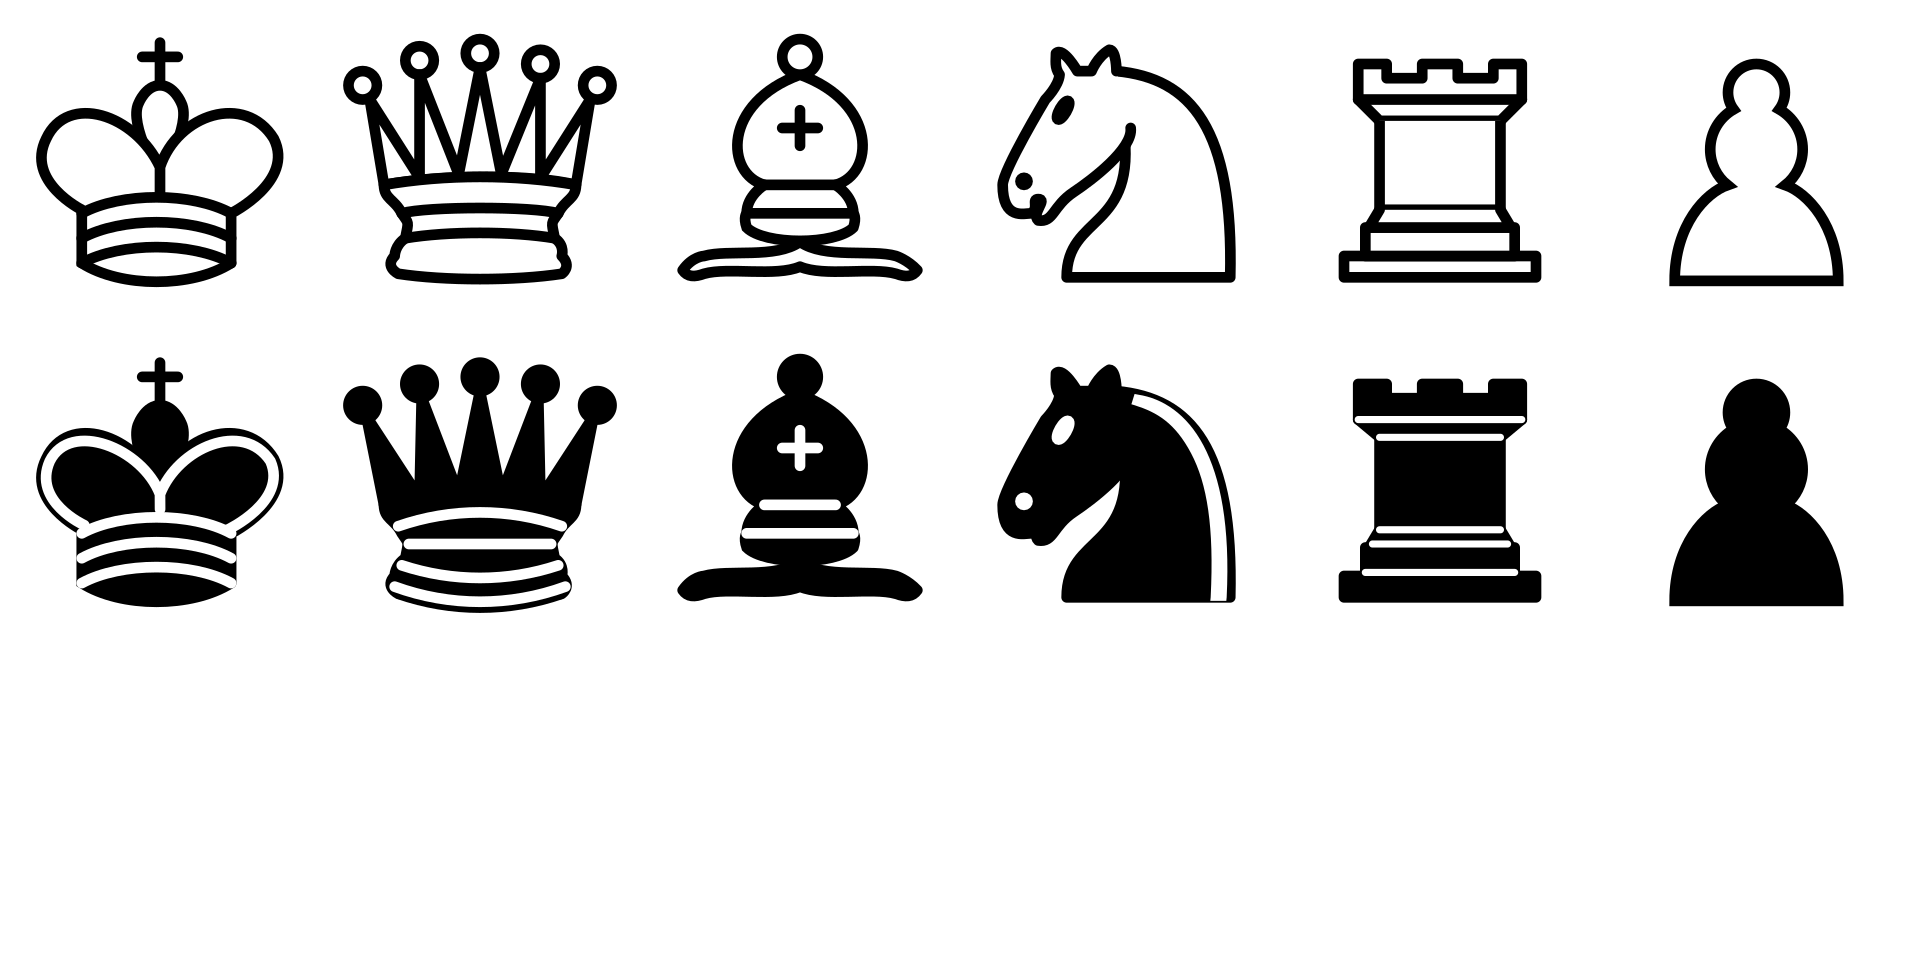
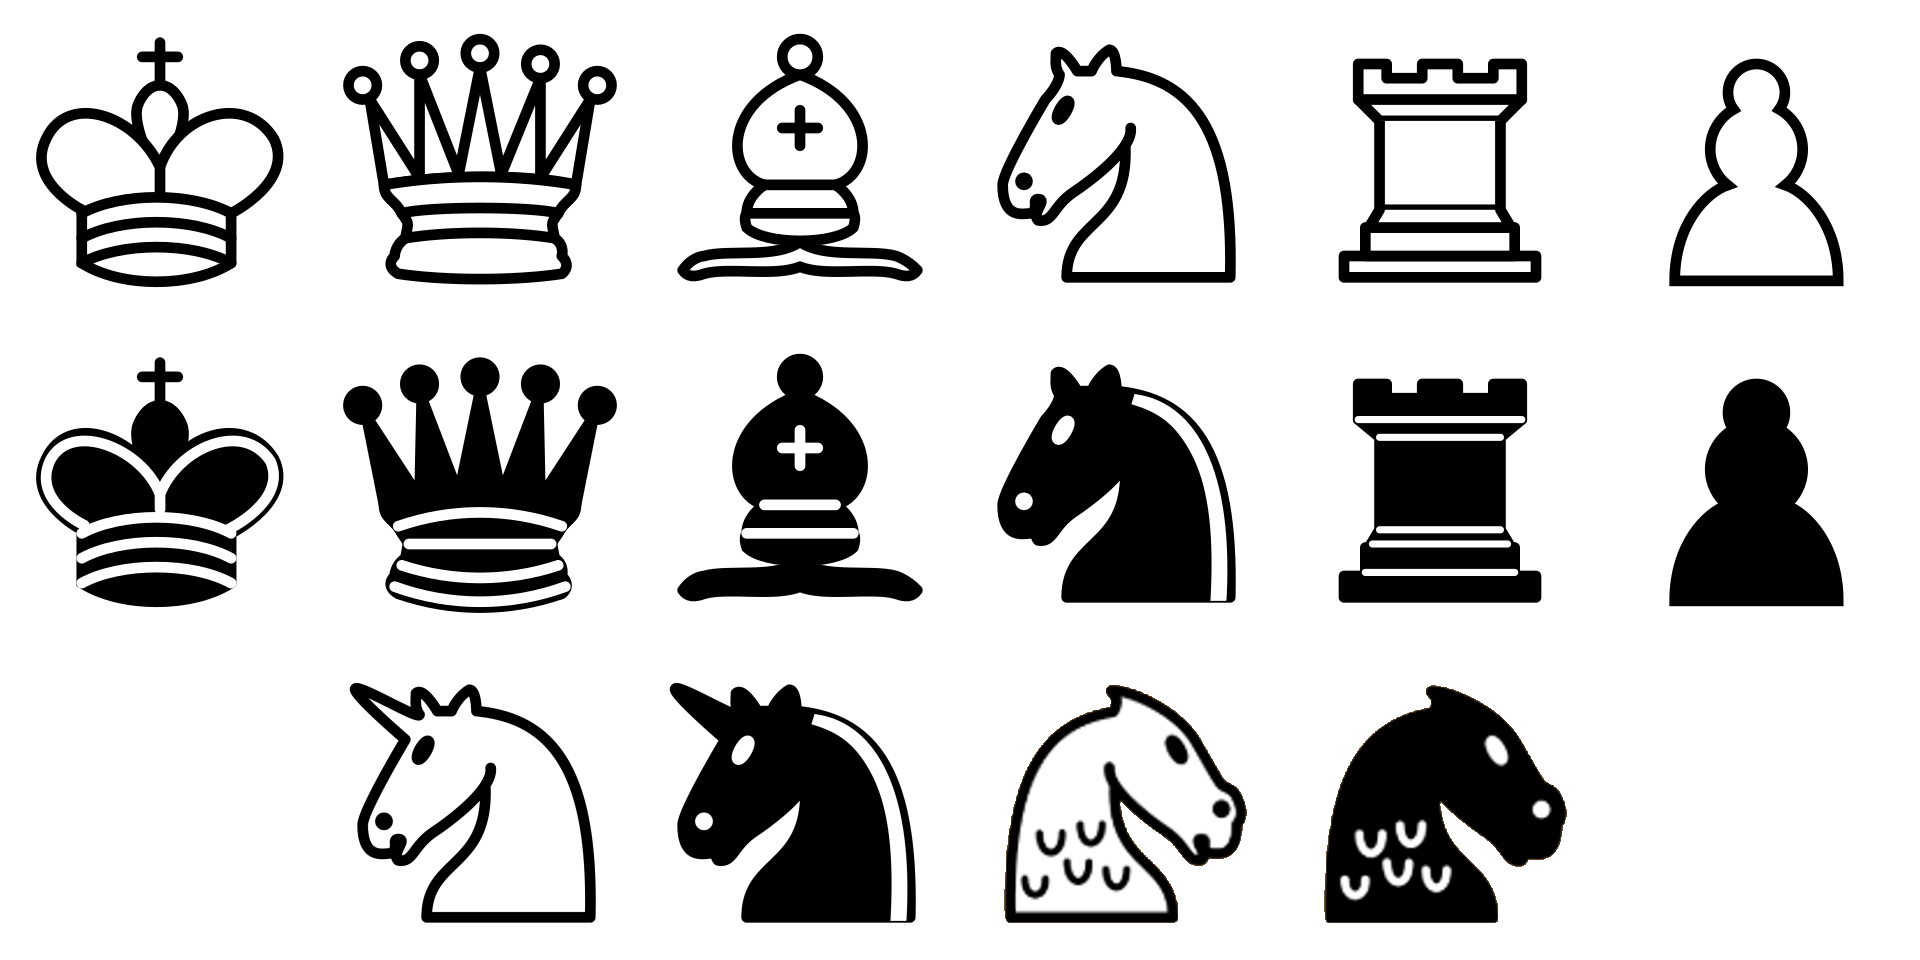
added proper timeline logic added dragon and unicorn

Changed region(s): [[0.3438, 0.7188, 0.6562, 0.9688], [0.6875, 0.7188, 0.8125, 0.9688], [0.1875, 0.7188, 0.3125, 0.9688]]

diff --git a/Chess5DGUI/Utils.cs b/Chess5DGUI/Utils.cs
@@ -14,12 +14,16 @@ namespace Chess5DGUI
             {PIECE.WHITE_KING,new Point(0,0)},
             {PIECE.WHITE_QUEEN,new Point(320,0)},
             {PIECE.WHITE_BISHOP,new Point(640,0)},
+            {PIECE.WHITE_UNICORN,new Point(320,640)},
+            {PIECE.WHITE_DRAGON,new Point(960,640)},
             {PIECE.WHITE_KNIGHT,new Point(960,0)},
             {PIECE.WHITE_ROOK,new Point(1280,0)},
             {PIECE.WHITE_PAWN,new Point(1600,0)},
             {PIECE.BLACK_KING,new Point(0,320)},
             {PIECE.BLACK_QUEEN,new Point(320,320)},
             {PIECE.BLACK_BISHOP,new Point(640,320)},
+            {PIECE.BLACK_UNICORN,new Point(640,640)},
+            {PIECE.BLACK_DRAGON,new Point(1280,640)},
             {PIECE.BLACK_KNIGHT,new Point(960,320)},
             {PIECE.BLACK_ROOK,new Point(1280,320)},
             {PIECE.BLACK_PAWN,new Point(1600,320)},
@@ -30,12 +34,16 @@ namespace Chess5DGUI
             { PIECE.WHITE_PAWN, 1 },
             { PIECE.WHITE_KNIGHT, 3 },
             { PIECE.WHITE_BISHOP, 3 },
+            { PIECE.WHITE_UNICORN, 3 },
+            { PIECE.WHITE_DRAGON, 3 },
             { PIECE.WHITE_ROOK, 5 },
             { PIECE.WHITE_QUEEN, 9 },
             { PIECE.WHITE_KING, 1 },
             { PIECE.BLACK_PAWN, -1 },
             { PIECE.BLACK_KNIGHT, -3 },
             { PIECE.BLACK_BISHOP, -3 },
+            { PIECE.BLACK_UNICORN, -3 },
+            { PIECE.BLACK_DRAGON, -3 },
             { PIECE.BLACK_ROOK, -5 },
             { PIECE.BLACK_QUEEN, -9 },
             { PIECE.BLACK_KING, -1 },
@@ -44,6 +52,8 @@ namespace Chess5DGUI
 
         public static readonly List<Point4> rookDirs = new();
         public static readonly List<Point4> bishopDirs = new();
+        public static readonly List<Point4> unicornDirs = new();
+        public static readonly List<Point4> dragonDirs = new();
         public static readonly List<Point4> queenDirs = new();
         public static readonly List<Point4> knightMoves = new();
 
@@ -79,6 +89,10 @@ namespace Chess5DGUI
                                 ar[i2] *= 2;
                                 knightMoves.Add(new(ar[0], ar[1], ar[2], ar[3]));
                             }
+                            else if (ac + at + ax + ay == 3)
+                                unicornDirs.Add(new(c, t, x, y));
+                            else if (ac + at + ax + ay == 4)
+                                dragonDirs.Add(new(c, t, x, y));
                             if (ac + at + ax + ay > 0)
                                 queenDirs.Add(new(c, t, x, y));
                         }
@@ -332,6 +346,42 @@ namespace Chess5DGUI
                                 case PIECE.WHITE_BISHOP:
                                 case PIECE.BLACK_BISHOP:
                                     foreach (Point4 item in bishopDirs)
+                                    {
+                                        for (int i = 1; i < 100; i++)
+                                        {
+                                            Point4 pos2 = pos + item * i;
+                                            if (!IsInBounds(board, pos2))
+                                                break;
+                                            PIECE p2 = board[pos2];
+                                            if (IsFriendlyPiece(p, p2))
+                                                break;
+                                            res.Add((pieceToPointValue[board[pos2]], new(pos, pos2)));
+                                            if (IsOpponentPiece(p, p2))
+                                                break;
+                                        }
+                                    }
+                                    break;
+                                case PIECE.WHITE_UNICORN:
+                                case PIECE.BLACK_UNICORN:
+                                    foreach (Point4 item in unicornDirs)
+                                    {
+                                        for (int i = 1; i < 100; i++)
+                                        {
+                                            Point4 pos2 = pos + item * i;
+                                            if (!IsInBounds(board, pos2))
+                                                break;
+                                            PIECE p2 = board[pos2];
+                                            if (IsFriendlyPiece(p, p2))
+                                                break;
+                                            res.Add((pieceToPointValue[board[pos2]], new(pos, pos2)));
+                                            if (IsOpponentPiece(p, p2))
+                                                break;
+                                        }
+                                    }
+                                    break;
+                                case PIECE.WHITE_DRAGON:
+                                case PIECE.BLACK_DRAGON:
+                                    foreach (Point4 item in dragonDirs)
                                     {
                                         for (int i = 1; i < 100; i++)
                                         {

diff --git a/Chess5DGUI/StartingBoards.cs b/Chess5DGUI/StartingBoards.cs
@@ -16,14 +16,24 @@ namespace Chess5DGUI
 
         //solved: white wins
         public static GameBoard FocusedQueens => GameBoard.GameBoardFromString("__K_Q_/______/______/______/______/_q_k__");
+        //
         public static GameBoard FocusedRooks => GameBoard.GameBoardFromString("R_KR_/_____/_____/_____/_rk_r");
         //solved?: white wins
         public static GameBoard FocusedKnights => GameBoard.GameBoardFromString("_NK_N/_____/_____/_____/n_kn_");
+        //
+        public static GameBoard FocusedBishops => GameBoard.GameBoardFromString("_KBB_/_____/_____/_____/_bbk_");
+        //
+        public static GameBoard FocusedUnicorns => GameBoard.GameBoardFromString("KU_U_/_____/_____/_____/_u_uk");
+        //
+        public static GameBoard FocusedDragons => GameBoard.GameBoardFromString("KDD__/_____/_____/_____/__ddk");
+        //
         public static GameBoard FocusedPawns => GameBoard.GameBoardFromString("KPPPP/_____/_____/_____/ppppk");
         //solved: first to branch timelines loses
         public static GameBoard FocusedKings => GameBoard.GameBoardFromString("K__/___/__k");
 
         public static GameBoard Test => GameBoard.GameBoardFromString("_P__K/_____/_____/_____/p___k");
+
+
 
         //solved
         public static GameBoard PuzzleRook1 => GameBoard.GameBoardFromString("K_R__/_____/_____/_____/____k", new(0, 0, 2, 0, 0, 0, 4, 0), new(0, 1, 4, 4, 0, 1, 3, 3), new(0, 2, 0, 0, 0, 2, 1, 1), new(0, 3, 3, 3, 0, 3, 2, 3));
@@ -33,7 +43,7 @@ namespace Chess5DGUI
         public static GameBoard PuzzleRook3 => GameBoard.GameBoardFromString("KR____/_R____/______/______/______/_____k", new(0, 0, 1, 1, 0, 0, 4, 1), new(0, 1, 5, 5, 0, 1, 5, 4));
         //unsolved: need to implement inactive timelines
         public static GameBoard PuzzleRook4 => GameBoard.GameBoardFromString("___K_/__r__/___k_/_____/_____", new Move(0, 0, 3, 0, 0, 0, 4, 0));
-        //partially solved: would need to process 8 steps
+        //human solved: would need to process 8 steps
         public static GameBoard PuzzleKnight6 => GameBoard.GameBoardFromString("K_N__/_____/_____/_____/____k");
         //solved
         public static GameBoard PuzzleKing1 => GameBoard.GameBoardFromString("_B___/__K__/_____/_k___/_____", new(0, 0, 2, 1, 0, 0, 1, 1), new(0, 1, 1, 3, 0, 1, 0, 3), new(0, 2, 1, 1, 0, 2, 0, 1), new(0, 3, 0, 3, 0, 3, 1, 3), new(0, 4, 1, 0, 0, 0, 4, 0));
@@ -47,13 +57,13 @@ namespace Chess5DGUI
         public static GameBoard OpeningTrap1 => GameBoard.GameBoardFromString("RNBQKBNR/PPPPPPPP/________/________/________/________/pppppppp/rnbqkbnr", new(0, 0, 4, 1, 0, 0, 4, 3), new(0, 1, 4, 6, 0, 1, 4, 4), new(0, 2, 3, 0, 0, 2, 7, 4), new(0, 3, 6, 7, 0, 3, 5, 5));
         //solved
         public static GameBoard OpeningTrap2 => GameBoard.GameBoardFromString("RNBQKBNR/PPPPPPPP/________/________/________/________/pppppppp/rnbqkbnr", new(0, 0, 3, 1, 0, 0, 3, 3), new(0, 1, 4, 6, 0, 1, 4, 4), new(0, 2, 3, 3, 0, 2, 4, 4), new(0, 3, 3, 7, 0, 3, 4, 6), new(0, 4, 1, 0, 0, 4, 3, 1));
-        //partially solved: would need to process 6 steps
+        //human solved: would need to process 6 steps
         public static GameBoard OpeningTrap3 => GameBoard.GameBoardFromString("RNBQKBNR/PPPPPPPP/________/________/________/________/pppppppp/rnbqkbnr", new(0, 0, 4, 1, 0, 0, 4, 3), new(0, 1, 2, 6, 0, 1, 2, 4), new(0, 2, 3, 0, 0, 2, 7, 4), new(0, 3, 3, 6, 0, 3, 3, 5), new(0, 4, 5, 0, 0, 4, 1, 4), new(0, 5, 1, 7, 0, 5, 2, 5), new(0, 6, 3, 1, 0, 6, 3, 2), new(0, 7, 6, 7, 0, 7, 5, 5));
         //unsolved
         public static GameBoard Tricky1 => GameBoard.GameBoardFromString("PPP_/____/____/p___|_B__/K___/____/___k");
         //solved
         public static GameBoard Tricky2 => GameBoard.GameBoardFromString("____/_BB_/____/__p_|_N__/K___/__p_/___k");
-        //unsolved: need to implement inactive timelines
+        //human solved: need to process 7 steps
         public static GameBoard PuzzleAdvBranching1 => GameBoard.GameBoardFromString("_K____/PP_N_Q/______/______/_n__pp/____rk", new(0, 0, 0, 1, 0, 0, 0, 3), new(0, 1, 1, 4, 0, 1, 3, 3), new(0, 2, 3, 1, 0, 2, 2, 3), new(0, 3, 5, 4, 0, 3, 5, 3), new(0, 4, 2, 3, 0, 0, 2, 2), new(1, 5, 3, 3, 0, 1, 3, 3));
     }
 }

diff --git a/Chess5DGUI/Game1.cs b/Chess5DGUI/Game1.cs
@@ -22,7 +22,7 @@ namespace Chess5DGUI
         private SpriteFont font;
         private const float colorBorderWidth = 0.3f;
 
-        private readonly GameBoard board = StartingBoards.Standard;
+        private readonly GameBoard board = StartingBoards.FocusedDragons;
         private Point4? selectedPos;
         private readonly List<Point4> prevMove = new();
         private List<Move> availableMoves;
@@ -102,7 +102,7 @@ namespace Chess5DGUI
                 if (depth > 200)  //may occur if no valid moves
                     continue;
 
-                int minTurn = workingBoard.boards.Min(timeline => timeline.Count);
+                int minTurn = board.boards.Where((timeline, c) => c >= board.timelinesByWhite - 1 && c <= board.boards.Count + board.timelinesByWhite).Min(timeline => timeline.Count);
                 Move move;
                 float score;
                 stopwatch.Restart();
@@ -213,7 +213,12 @@ namespace Chess5DGUI
                         if (!viewWorldRect.Intersects(drawBoardRect))
                             continue;
                         int borderPixelWidth = (int)(pieceDrawSize * colorBorderWidth);
-                        _spriteBatch.Draw(blank, new Rectangle(drawBoardPos.X - borderPixelWidth, drawBoardPos.Y - borderPixelWidth, board.width * pieceDrawSize + borderPixelWidth * 2, board.height * pieceDrawSize + borderPixelWidth * 2), t % 2 == 0 ? Color.White : Color.Black);
+                        Color boardCol;
+                        if (c >= board.timelinesByWhite - 1 && c <= board.boards.Count + board.timelinesByWhite)
+                            boardCol = t % 2 == 0 ? Color.White : Color.Black;
+                        else
+                            boardCol = Color.Gray;
+                        _spriteBatch.Draw(blank, new Rectangle(drawBoardPos.X - borderPixelWidth, drawBoardPos.Y - borderPixelWidth, board.width * pieceDrawSize + borderPixelWidth * 2, board.height * pieceDrawSize + borderPixelWidth * 2), boardCol);
 
                         for (int x = 0; x < board.width; x++)
                         {

diff --git a/Chess5DGUI/Algorithm2.cs b/Chess5DGUI/Algorithm2.cs
@@ -147,7 +147,7 @@ namespace Chess5DGUI
             board[move.to] = p;
             board[move.from] = PIECE.NONE;
 
-            int minTurn = board.boards.Min(timeline => timeline.Count);
+            int minTurn = board.boards.Where((timeline, c) => c >= board.timelinesByWhite - 1 && c <= board.boards.Count + board.timelinesByWhite).Min(timeline => timeline.Count);
             float score = GetScore(board, minTurn % 2 == 1, maxDepth - 1, a, b, ref earlyExit);
 
             board.boards[move.from.c].RemoveAt(move.from.t);
@@ -192,7 +192,7 @@ namespace Chess5DGUI
                         score += Utils.pieceToPointValue[board[c, t, x, y]];
             }
             score /= boards;
-            score -= board.timelinesByWhite * 5;
+            score -= board.timelinesByWhite * 10;
             score -= board.whiteKingCaptured * Utils.WIN_VALUE;
             return score;
         }
